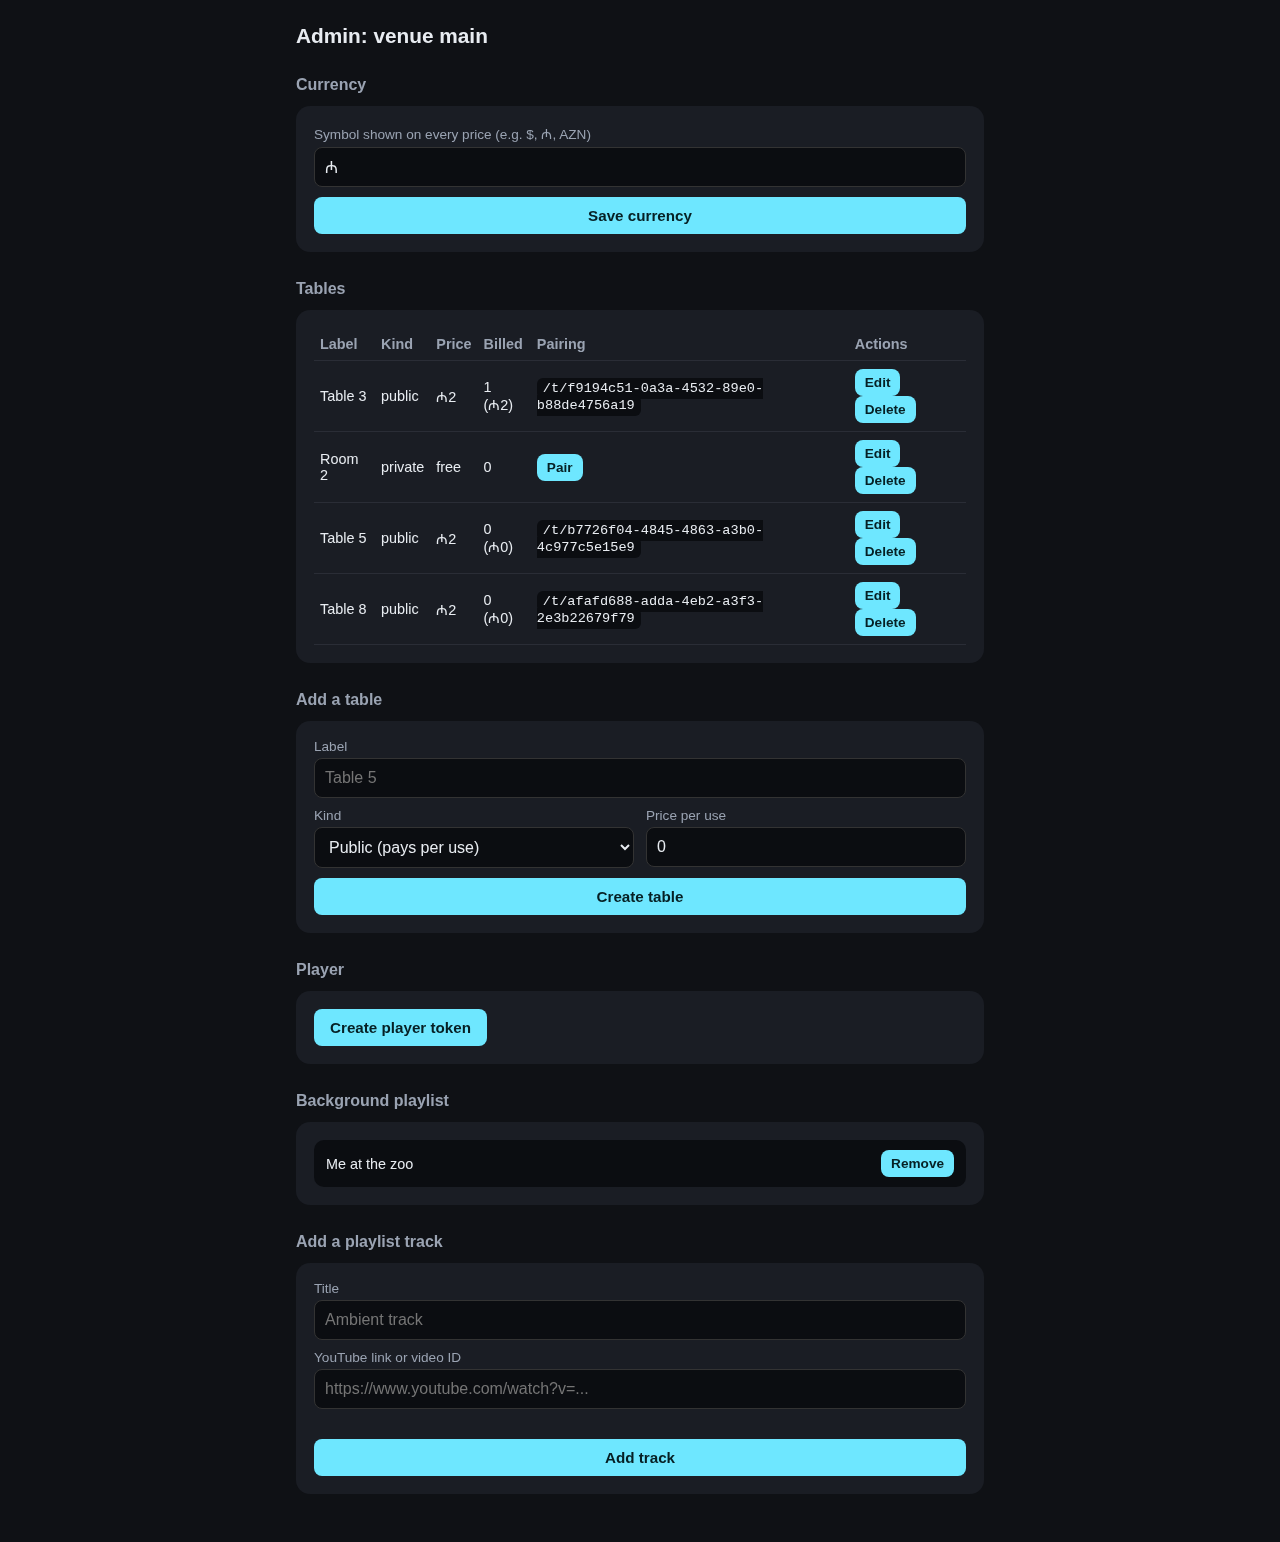
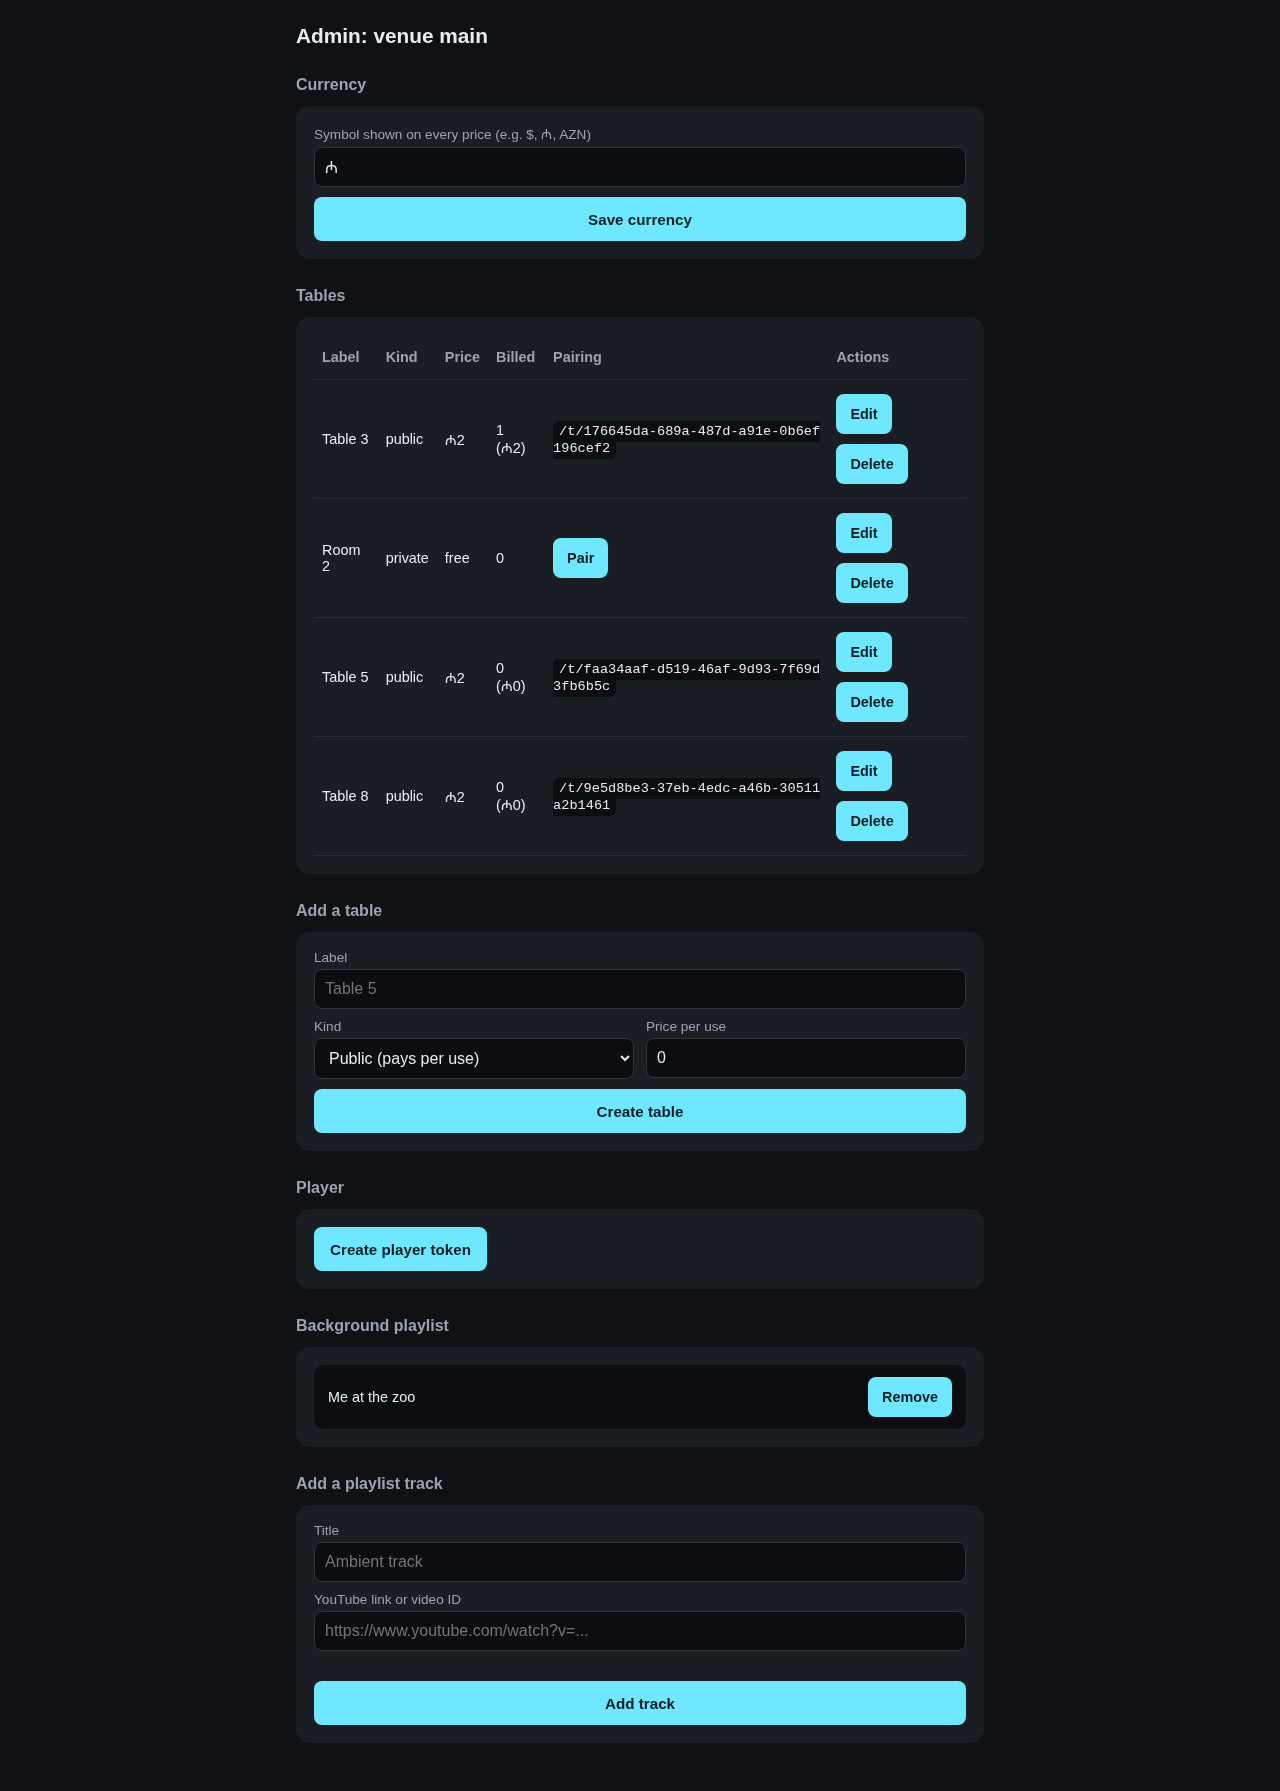
fix: admin table buttons were too small and too close together
Edit/Delete sat right next to each other with only a text-space gap,
both at a tiny 6px-padding size, easy to mis-tap on a phone or iPad.
Bumped touch targets to a real minimum height, gave button groups an
actual flex gap, and below 900px wide switched the table to a stacked
card per row instead of squeezing six columns into a narrow width.

diff --git a/public/admin.html b/public/admin.html
@@ -22,8 +22,9 @@
   h2 { font-size: 1rem; color: #9aa3b2; margin: 28px 0 12px; }
   .panel { background: #1a1d24; border-radius: 14px; padding: 18px; }
   table { width: 100%; border-collapse: collapse; }
-  th, td { text-align: left; padding: 8px 6px; border-bottom: 1px solid #2a2d36; font-size: 0.9rem; }
+  th, td { text-align: left; padding: 14px 8px; border-bottom: 1px solid #2a2d36; font-size: 0.9rem; }
   th { color: #9aa3b2; font-weight: 600; }
+  code { background: #0b0d11; padding: 3px 6px; border-radius: 6px; font-size: 0.85rem; word-break: break-all; }
   form { display: flex; flex-direction: column; gap: 10px; }
   label { font-size: 0.85rem; color: #9aa3b2; }
   input[type="text"], input[type="number"], select {
@@ -42,24 +43,57 @@
     font-size: 0.95rem;
     font-weight: 700;
     padding: 10px 16px;
+    min-height: 44px;
     border-radius: 8px;
     border: none;
     cursor: pointer;
     background: #6ee7ff;
     color: #062024;
   }
-  button.small { padding: 6px 10px; font-size: 0.85rem; }
-  code { background: #0b0d11; padding: 3px 6px; border-radius: 6px; font-size: 0.85rem; }
+  button.small { padding: 8px 14px; font-size: 0.9rem; min-height: 40px; }
+  .btn-group { display: flex; gap: 10px; flex-wrap: wrap; }
   .hint { font-size: 0.85rem; color: #9aa3b2; min-height: 1.2em; margin: 0; }
   .hint.error { color: #ff6e6e; }
   #playlist-rows li {
     background: #0b0d11;
     border-radius: 10px;
-    padding: 10px 12px;
+    padding: 12px 14px;
     display: flex;
     justify-content: space-between;
     align-items: center;
+    gap: 12px;
     font-size: 0.9rem;
+  }
+
+  /* Phones and iPads: stack each row as a card instead. */
+  @media (max-width: 900px) {
+    .row { flex-direction: column; }
+    table, tbody, tr, td { display: block; width: 100%; }
+    thead { display: none; }
+    tbody tr {
+      background: #0b0d11;
+      border-radius: 12px;
+      padding: 4px 14px;
+      margin-bottom: 12px;
+    }
+    td {
+      display: flex;
+      justify-content: space-between;
+      align-items: center;
+      gap: 12px;
+      padding: 10px 0;
+      border-bottom: 1px solid #22252c;
+    }
+    td:last-child { border-bottom: none; }
+    td::before {
+      content: attr(data-label);
+      color: #9aa3b2;
+      font-weight: 600;
+      flex-shrink: 0;
+    }
+    td[data-label="Actions"] { flex-direction: column; align-items: stretch; }
+    td[data-label="Actions"]::before { margin-bottom: 6px; }
+    td[data-label="Actions"] .btn-group button { flex: 1; }
   }
 </style>
 </head>
@@ -211,7 +245,7 @@
         const pairingCell = t.pairingUrl
           ? `<code>${escapeHtml(t.pairingUrl)}</code>`
           : `<button class="small" data-pair-table-id="${t.id}">Pair</button>`;
-        tr.innerHTML = `<td>${escapeHtml(t.label)}</td><td>${t.kind}</td><td>${priceText}</td><td>${billedText}</td><td>${pairingCell}</td><td><button class="small" data-edit-table-id="${t.id}" data-label="${escapeHtml(t.label)}" data-kind="${t.kind}" data-price="${t.pricePerUse}">Edit</button> <button class="small" data-delete-table-id="${t.id}" data-label="${escapeHtml(t.label)}">Delete</button></td>`;
+        tr.innerHTML = `<td data-label="Label">${escapeHtml(t.label)}</td><td data-label="Kind">${t.kind}</td><td data-label="Price">${priceText}</td><td data-label="Billed">${billedText}</td><td data-label="Pairing">${pairingCell}</td><td data-label="Actions"><div class="btn-group"><button class="small" data-edit-table-id="${t.id}" data-label="${escapeHtml(t.label)}" data-kind="${t.kind}" data-price="${t.pricePerUse}">Edit</button><button class="small" data-delete-table-id="${t.id}" data-label="${escapeHtml(t.label)}">Delete</button></div></td>`;
         tableRowsEl.appendChild(tr);
       });
 
